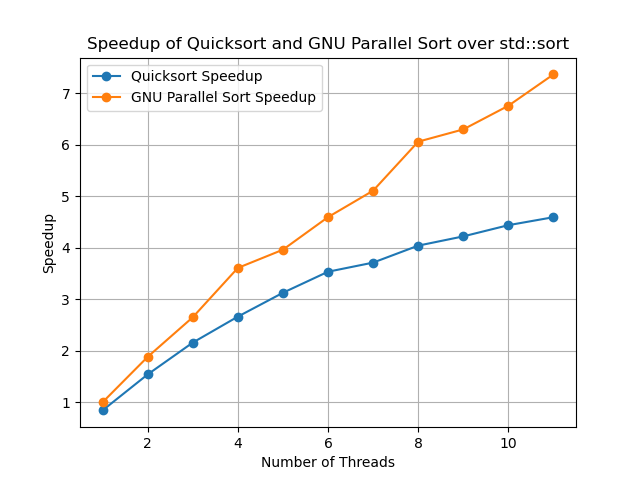
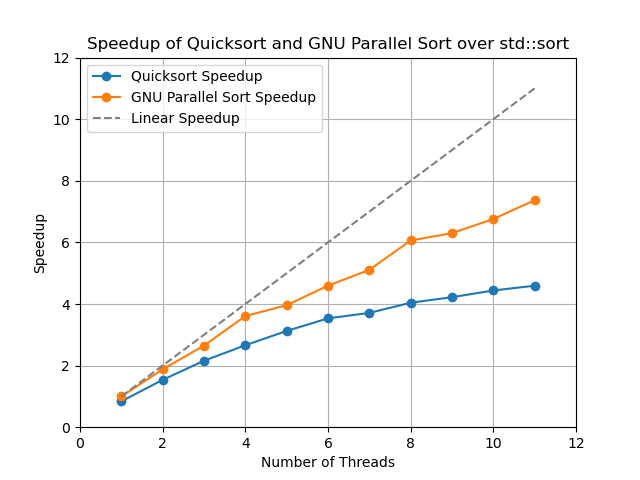
finish task 2

diff --git a/answers/lecture_4/code/graphs.py b/answers/lecture_4/code/graphs.py
@@ -7,9 +7,12 @@ threads_gnu_parallel_sort_speedup_data = [0.99706, 1.87928, 2.64885, 3.60776, 3.
 f1 = plt.figure()
 plt.plot(threads_numbers_data, threads_quicksort_speedup_data, label='Quicksort Speedup', marker='o')
 plt.plot(threads_numbers_data, threads_gnu_parallel_sort_speedup_data, label='GNU Parallel Sort Speedup', marker='o')
+plt.plot(threads_numbers_data, threads_numbers_data, label='Linear Function', linestyle='--', color='gray')
 plt.xlabel('Number of Threads')
 plt.ylabel('Speedup')
 plt.title('Speedup of Quicksort and GNU Parallel Sort over std::sort')
+plt.xlim(0, 12)
+plt.ylim(0, 12)
 plt.legend()
 plt.grid(True)
 plt.savefig('../speedup_vs_threads.png')

diff --git a/answers/lecture_4/report.md b/answers/lecture_4/report.md
@@ -146,6 +146,30 @@ Benchmarking with array size 1e+09:
 
 ### 4. Explain any patterns or trends observed in the graphs, and offer potential reasons for these findings.
 
+**Thread Count vs Speedup**
+
+When looking at the graph that plots different thread counts against the speedups achieved over `std::sort`, a few patterns can be observed.
+
+With 1 thread, both `__gnu_parallel::sort` and `min_max_quicksort` have a speedup of less than 1x, meaning that they are actually slower than `std::sort`. This could indicate the performance overhead of using a parallelization framework. Additionally, it seems that `min_max_quicksort` is not as optimized as `std::sort` and `__gnu_parallel::sort`.
+
+With an increasing number of threads, the speedup increases as well. Both algorithms outperform `std::sort` as soon as more than one thread is used. However, for `min_max_quicksort`, the achieved speedup does not scale linearly with the number of threads. Instead, it follows a logarithmic curve, meaning that diminishing returns are receiving early on.
+
+As for `__gnu_parallel::sort`, it roughly maintains linear scaling up until 4 threads. For any thread count higher than that, diminishing returns can be observed as well, although the speedup constantly stays above `min_max_quicksort`. 
+
+The observations can likely be explained by the number of performance and efficiency cores, where the version running on up to 4 threads is primarily using performance cores and the versions with a higher thread count also utilize less performant efficiency cores, thus not reaching linear increases in speedup. Additionally, it seems like `min_max_quicksort` has worse load balancing or parellization capabilities than `__gnu_parallel::sort`, because they have similar performance when run sequentially but increasingly different performance with higher thread counts.
+
+**Array Size vs Speedup**
+
+When looking at the graph that plots different array sizes against the speedups achieved over `std::sort`, we can observe interesting patterns as well.
+
+Both parallel algorithms peak around 10^7-10^8 elements, where `min_max_quicksort` achieves 4.5x speedup and `__gnu_parallel::sort` reaches nearly 7x speedup. At 10^5 elements, speedups are the lowest (3.3x and 3.6x respectively) due to parallelization overhead dominating the computation time. At 10^9 elements, the performance drops significantly. This is likely due to cache misses and memory bandwidth saturation. I did not try any array sizes larger than that, since the benchmark was already using around 75% of the system memory at peak.
+
+We can also observe that `__gnu_parallel::sort` continuously outperforms `min_max_quicksort` here as well. While it is hard to find an exact reason without researching the implementation details, we can assume that `__gnu_parallel::sort` uses better memory management techniques and optimizations that allow it to better handle larger data sizes.
+
 ## Task 2
 
 **Read** _What every systems programmer should know about concurrency._ **Discuss two things you find particularly interesting.**
+
+The first topic I found particularly interesting was the distinction between strongly ordered and weakly ordered systems. The article explains that different architectures provide different ordering guarantees, also known as memory models. There are strongly ordered systems, such as x64 architectures, which generally ensure that memory operations are completed in a sequential order. Then there are weakly ordered systems, such as ARM architectures, which do not make this guarantee. This means that on weakly ordered systems, memory operations can be automatically reordered for optimization purposes, which can lead to unexpected behavior in concurrent programs if not handled properly. The article then shows an example of how to use memory barriers to enforce ordering on ARM architectures: one example is the `atomic` keyword in C++, which gets compiled into `dmb` instructions on ARM. These act as memory barriers and any memory operation that happens before the barrier in program order is guaranteed to be completed before any memory operation that happens after the barrier. For atomic functions, this means that the respective memory access is sandwiched between two `dmb` instructions.
+
+The second topic I found interesting was the explanation of the `volatile` keyword in C++. I had heard of it before, and it was briefly mentioned in a previous lecture, but I had never fully understood its purpose. The article explains that `volatile` is used to inform the compiler that a variable's value can be changed by something besides the program that is being executed. When using the `volatile` keyword, the compiler will guarantee two things: first, it will not eliminate any loads and stores that seem "unnecessary". For example, if a variable is assigned a value multiple times in a row without any reads in between, the compiler will not optimize away the redundant assignments. This is because the variable might point to an `MMIO` register, where it would not be safe to assume that the write operations are redundant. Second, the compiler will not reorder any `volatile` operations with respect to other `volatile` operations. This means that if there are multiple `volatile` reads and writes in a program, the compiler will ensure that they are executed in the order they appear in the source code. However, it is important to note that `volatile` does not provide any guarantees about reordering with respect to non-volatile operations, nor does it emit any memory barriers. As a result, it can not be used for safe inter-thread communication.
